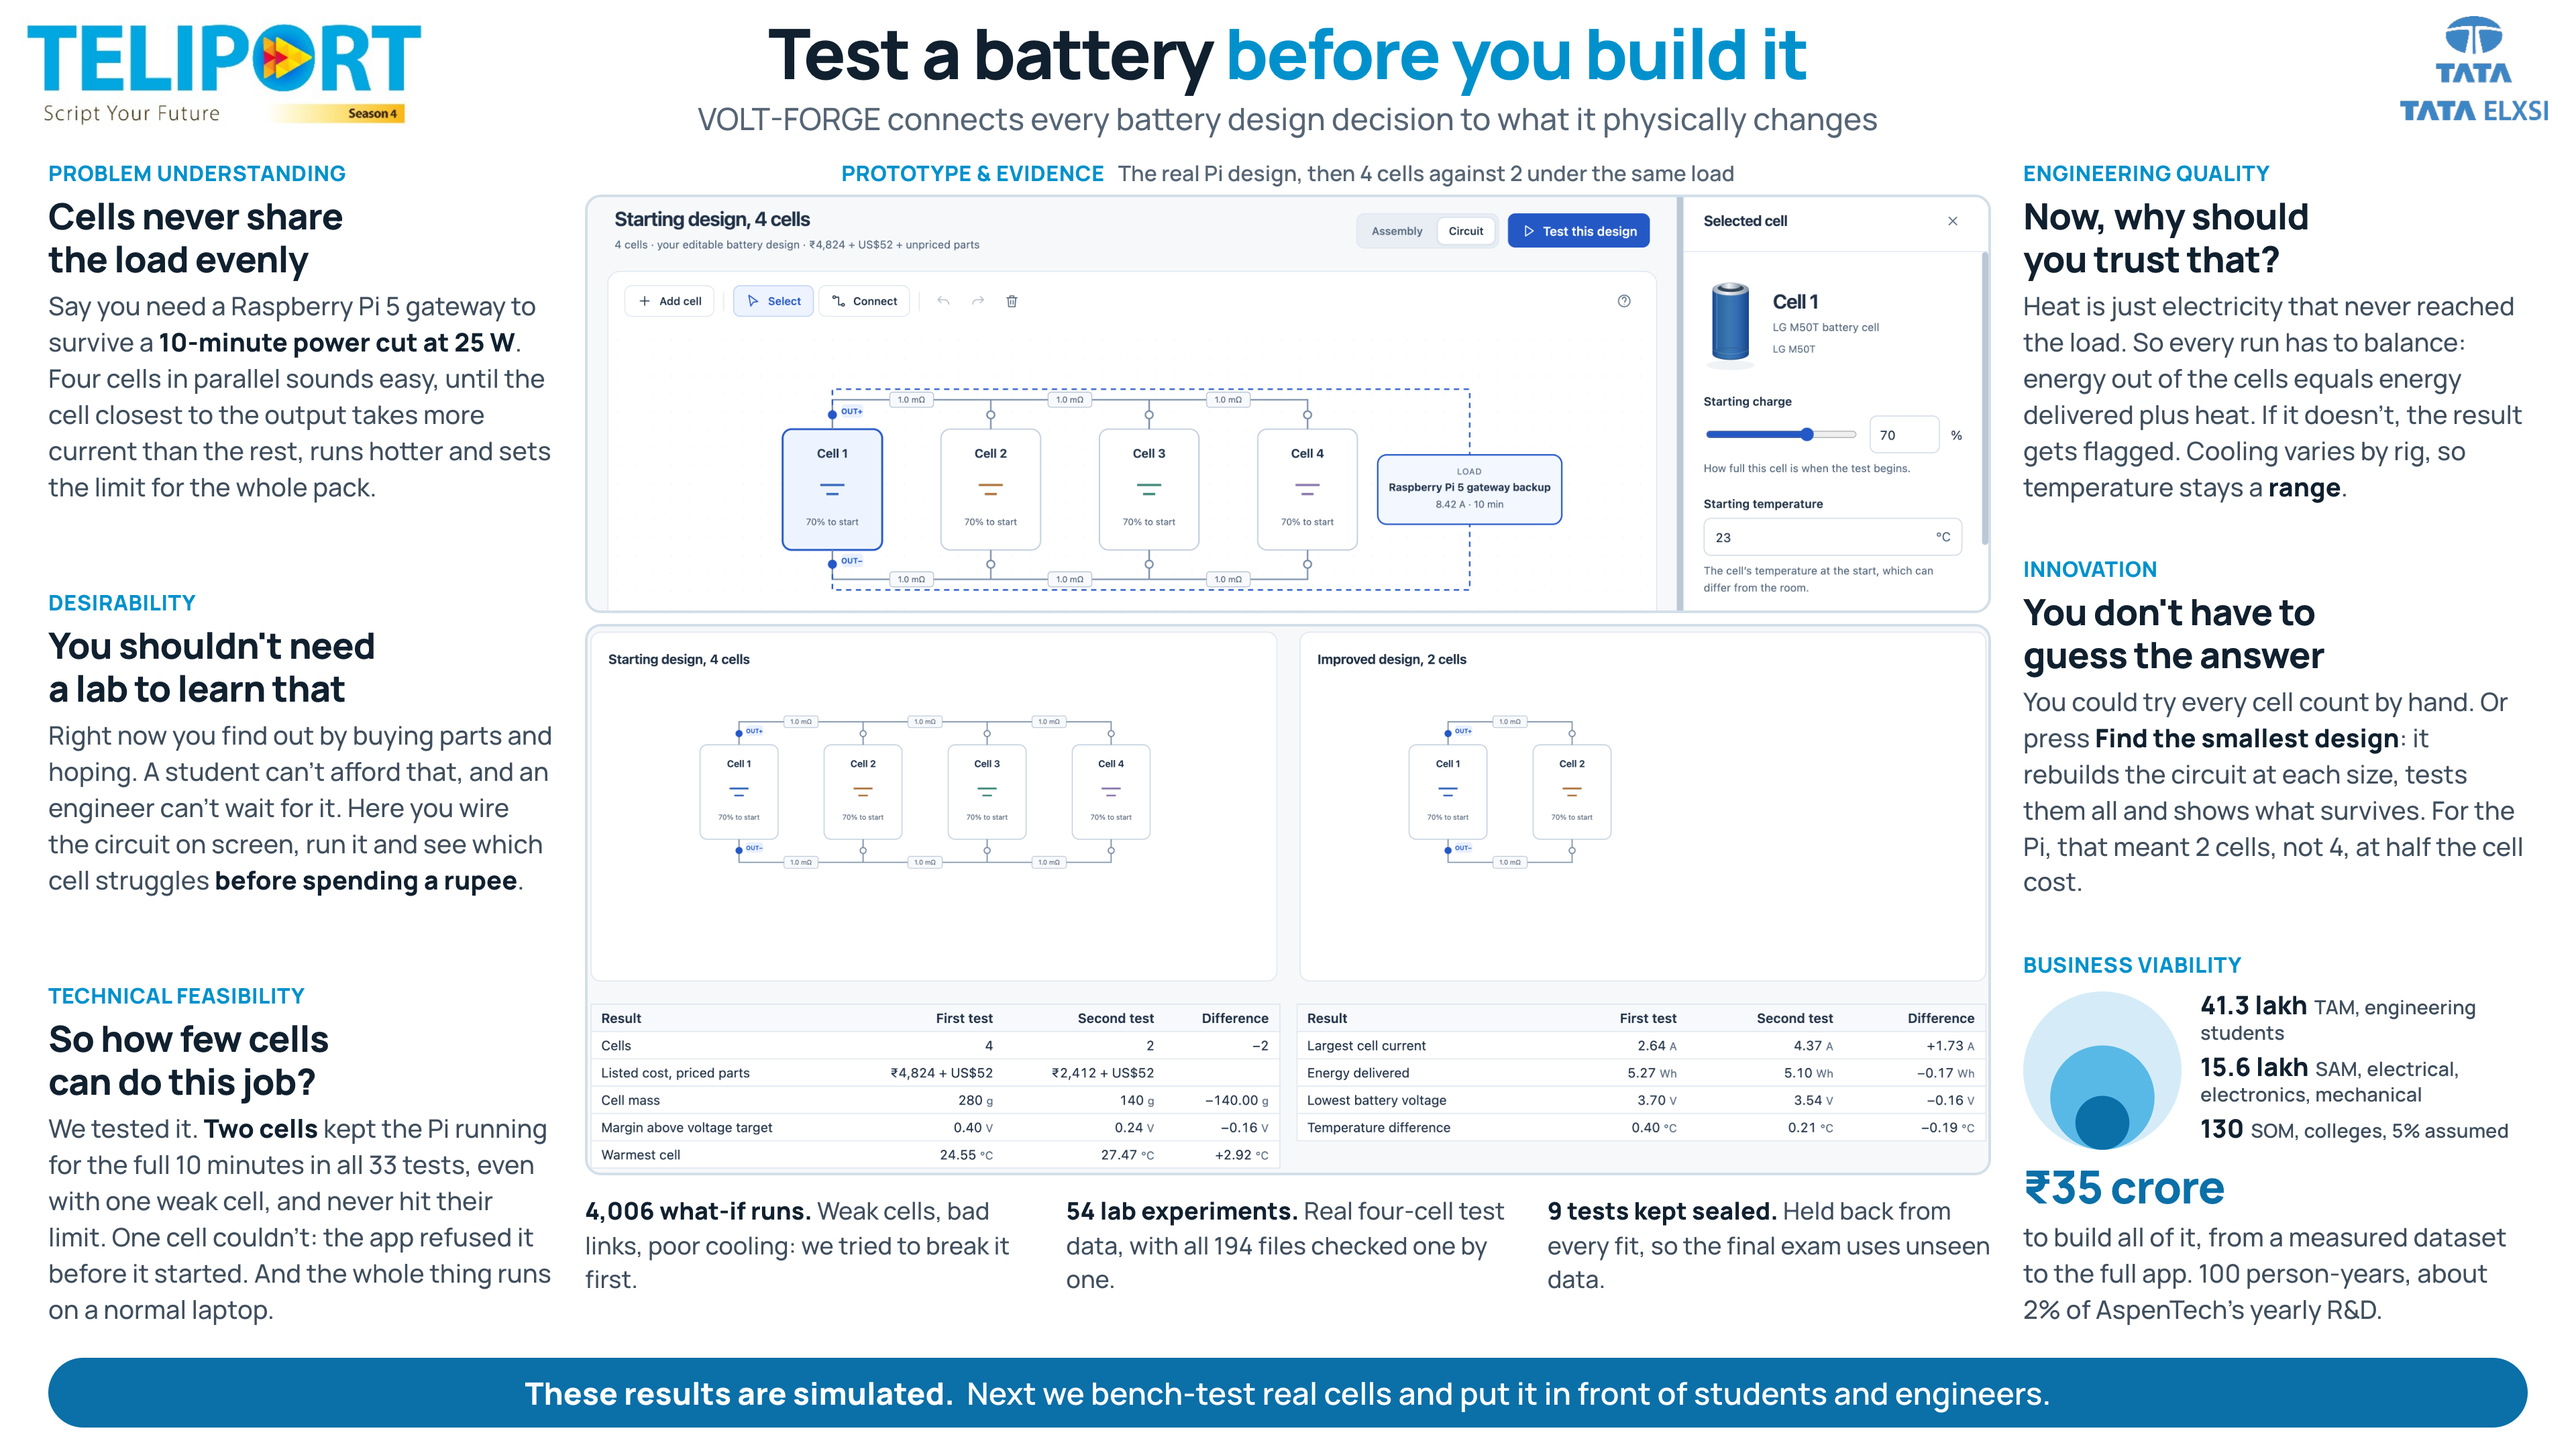
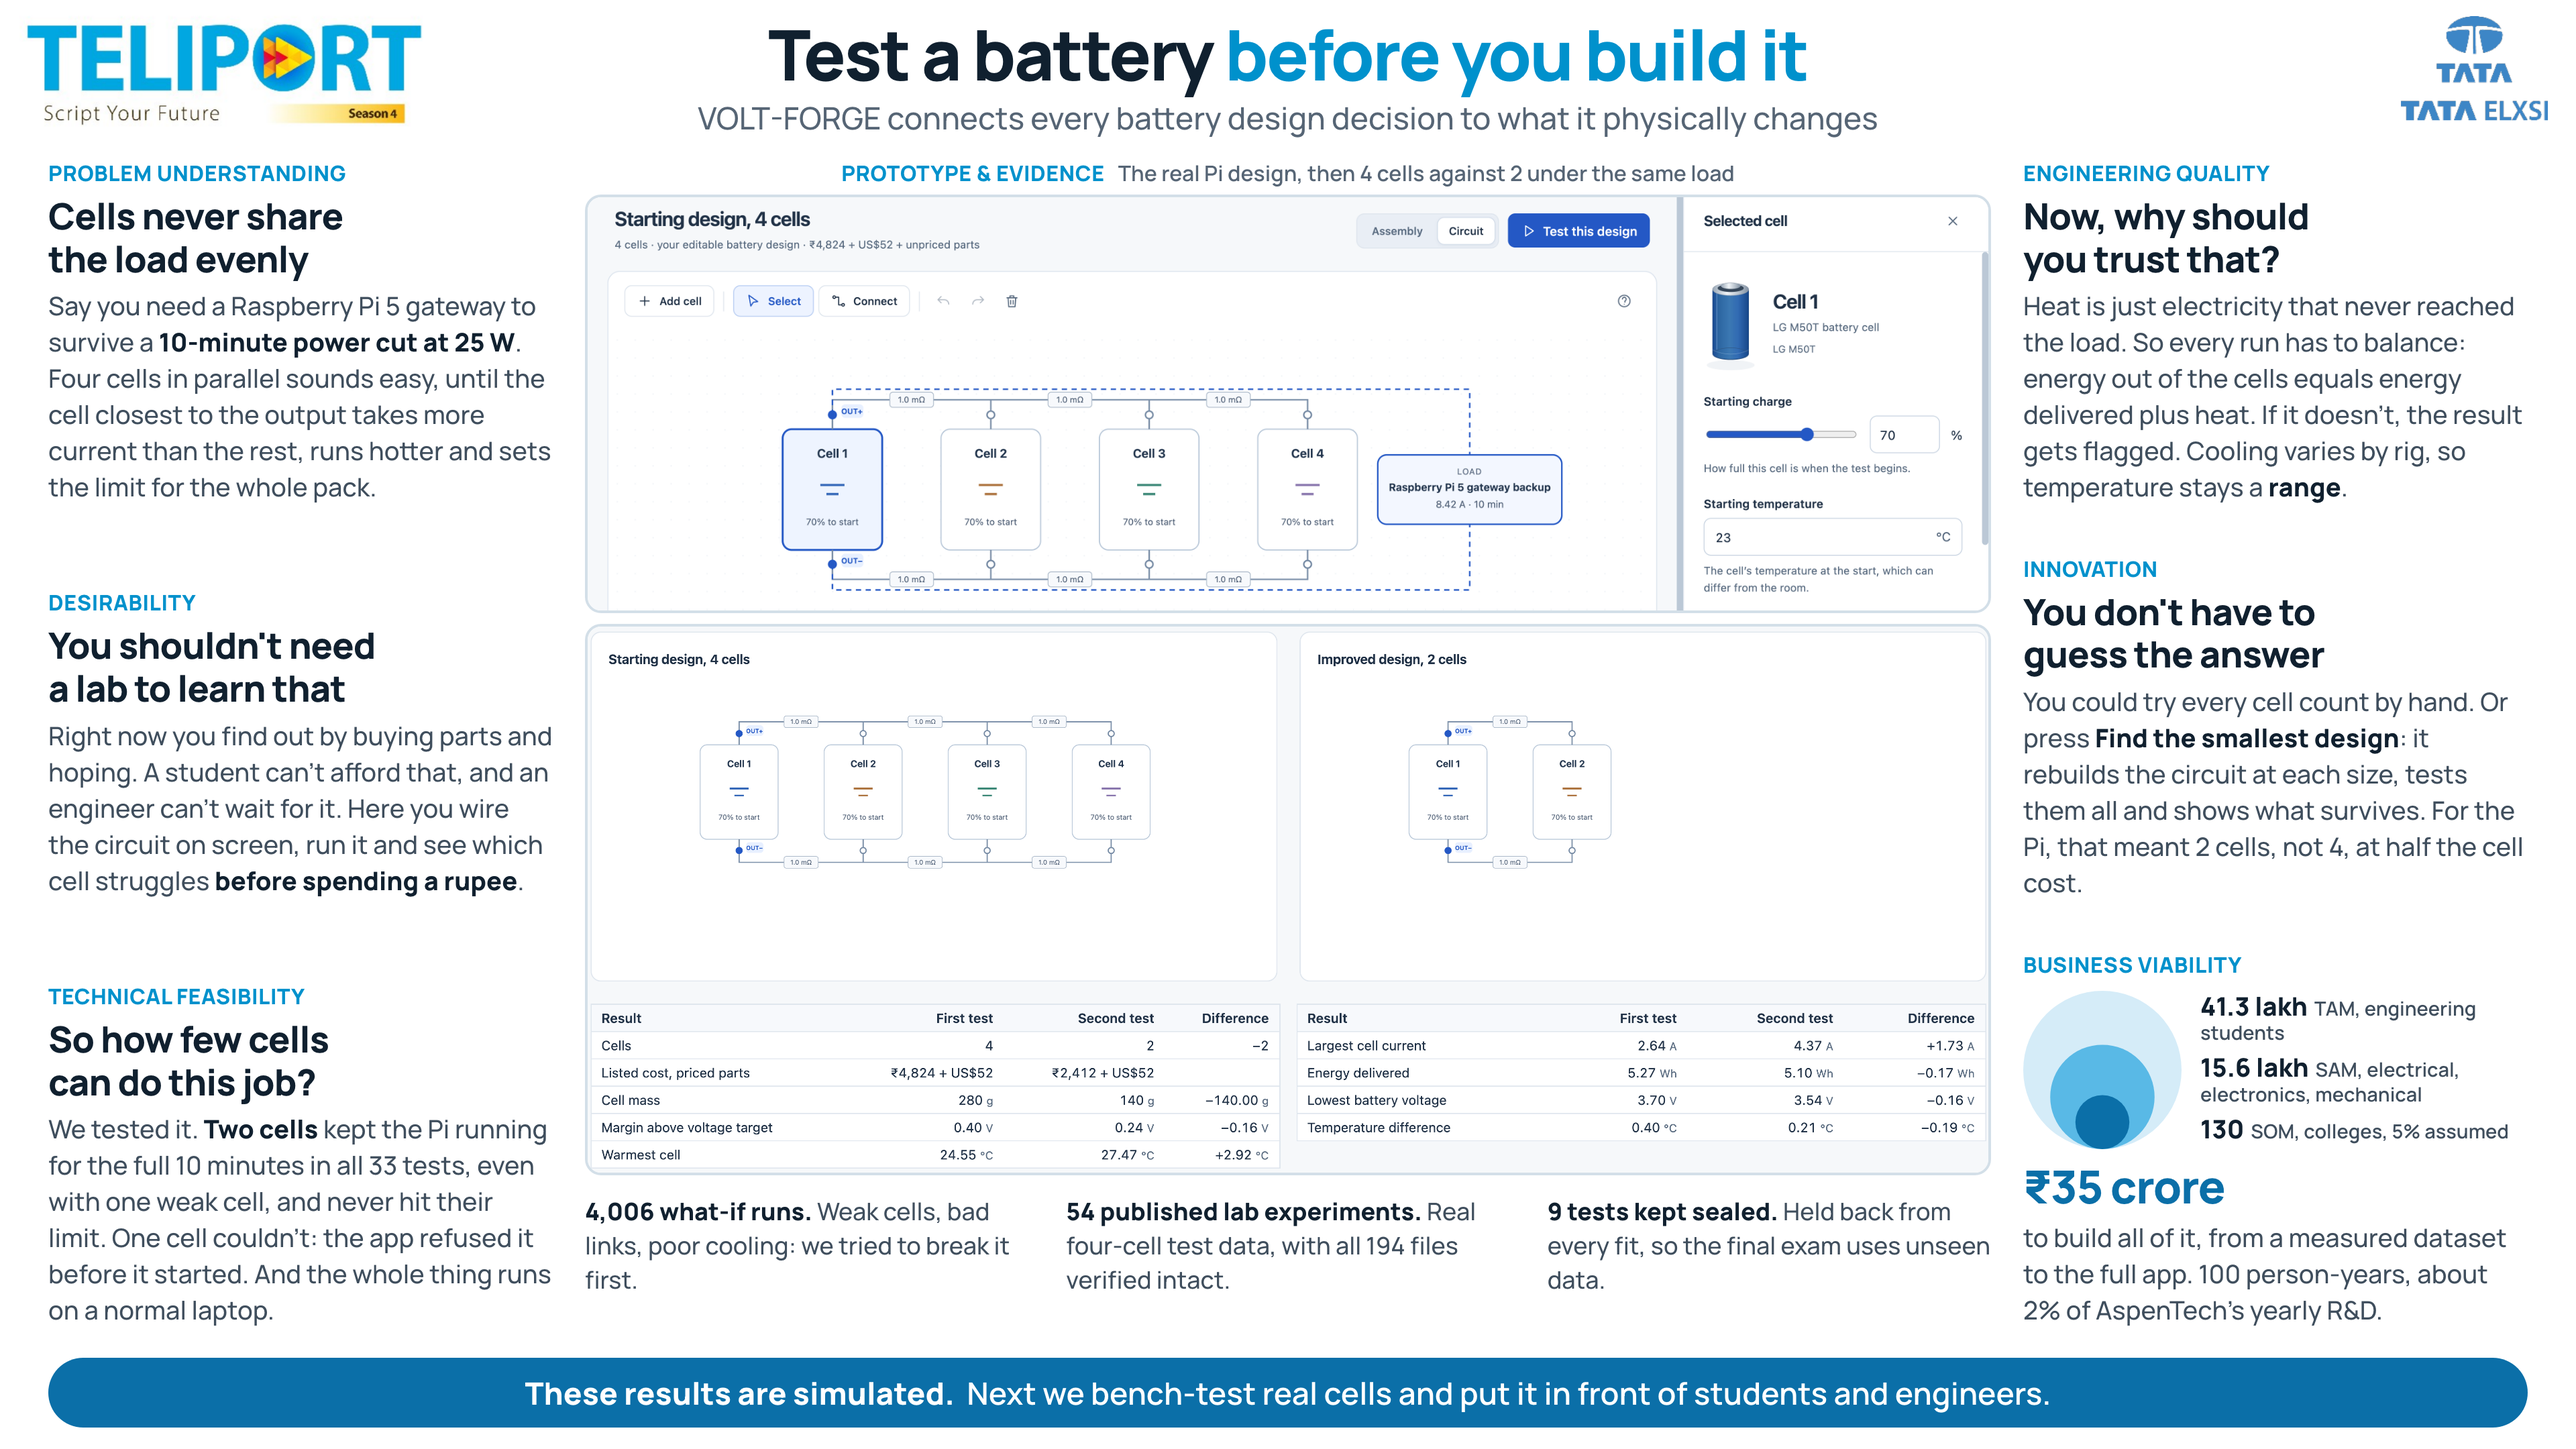
Freeze the extra engineering checks before running them
Also say the lab experiments are published and the files verified intact.

diff --git a/reports/slide_v4/slide.html b/reports/slide_v4/slide.html
@@ -43,7 +43,7 @@ footer b{font-weight:800}
 <section class="proto"><h2>Prototype &amp; evidence<span>The real Pi design, then 4 cells against 2 under the same load</span></h2>
 <div class="shot one"><img src="assets/circuit.png" alt="The 4-cell Pi backup circuit in VOLT-FORGE with the properties of Cell 1 open"></div>
 <div class="shot two"><img src="assets/compare.png" alt="VOLT-FORGE comparing the 4-cell and 2-cell designs, with the full results table"></div>
-<div class="proofs"><div><b>4,006 what-if runs.</b> Weak cells, bad links, poor cooling: we tried to break it first.</div><div><b>54 lab experiments.</b> Real four-cell test data, with all 194 files checked one by one.</div><div><b>9 tests kept sealed.</b> Held back from every fit, so the final exam uses unseen data.</div></div>
+<div class="proofs"><div><b>4,006 what-if runs.</b> Weak cells, bad links, poor cooling: we tried to break it first.</div><div><b>54 published lab experiments.</b> Real four-cell test data, with all 194 files verified intact.</div><div><b>9 tests kept sealed.</b> Held back from every fit, so the final exam uses unseen data.</div></div>
 </section>
 <section class="col right">
 <div class="c"><h2>Engineering quality</h2><h3>Now, why should you trust that?</h3><p>Heat is just electricity that never reached the load. So every run has to balance: energy out of the cells equals energy delivered plus heat. If it doesn't, the result gets flagged. Cooling varies by rig, so temperature stays a <b>range</b>.</p></div>

diff --git a/scripts/build_slide_html.py b/scripts/build_slide_html.py
@@ -64,7 +64,7 @@ def main():
 <section class="proto"><h2>Prototype &amp; evidence<span>The real Pi design, then 4 cells against 2 under the same load</span></h2>
 <div class="shot one"><img src="assets/circuit.png" alt="The 4-cell Pi backup circuit in VOLT-FORGE with the properties of Cell 1 open"></div>
 <div class="shot two"><img src="assets/compare.png" alt="VOLT-FORGE comparing the 4-cell and 2-cell designs, with the full results table"></div>
-<div class="proofs"><div><b>{k['study_runs']:,} what-if runs.</b> Weak cells, bad links, poor cooling: we tried to break it first.</div><div><b>{k['lab_experiments']} lab experiments.</b> Real four-cell test data, with all {k['data_files']} files checked one by one.</div><div><b>{k['sealed_total']} tests kept sealed.</b> Held back from every fit, so the final exam uses unseen data.</div></div>
+<div class="proofs"><div><b>{k['study_runs']:,} what-if runs.</b> Weak cells, bad links, poor cooling: we tried to break it first.</div><div><b>{k['lab_experiments']} published lab experiments.</b> Real four-cell test data, with all {k['data_files']} files verified intact.</div><div><b>{k['sealed_total']} tests kept sealed.</b> Held back from every fit, so the final exam uses unseen data.</div></div>
 </section>
 <section class="col right">
 <div class="c"><h2>Engineering quality</h2><h3>Now, why should you trust that?</h3><p>Heat is just electricity that never reached the load. So every run has to balance: energy out of the cells equals energy delivered plus heat. If it doesn't, the result gets flagged. Cooling varies by rig, so temperature stays a <b>range</b>.</p></div>
